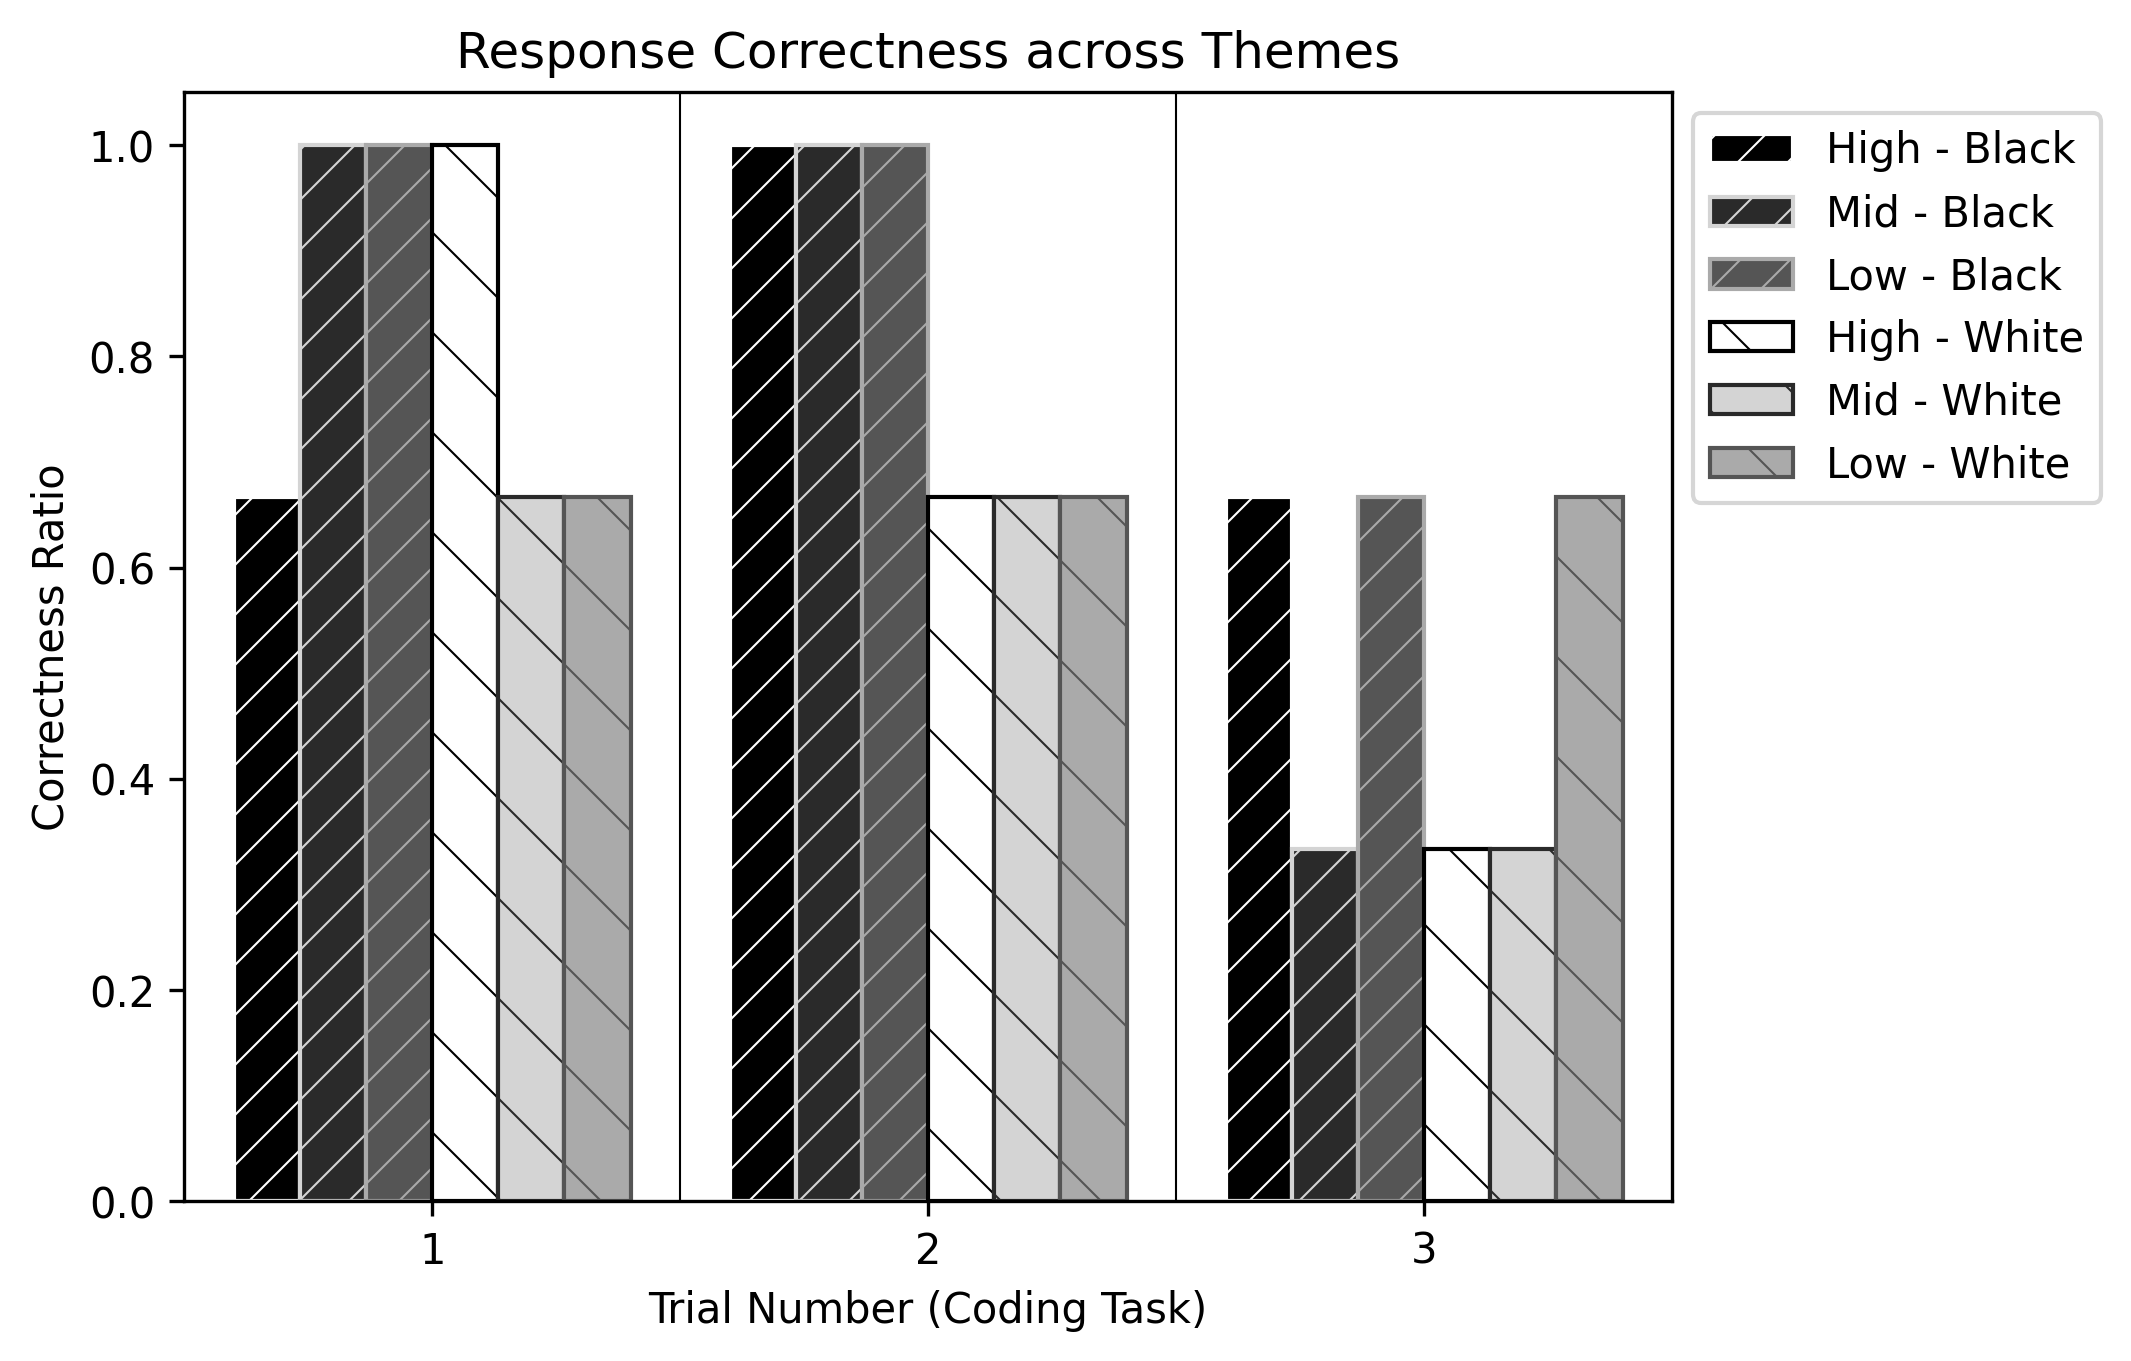
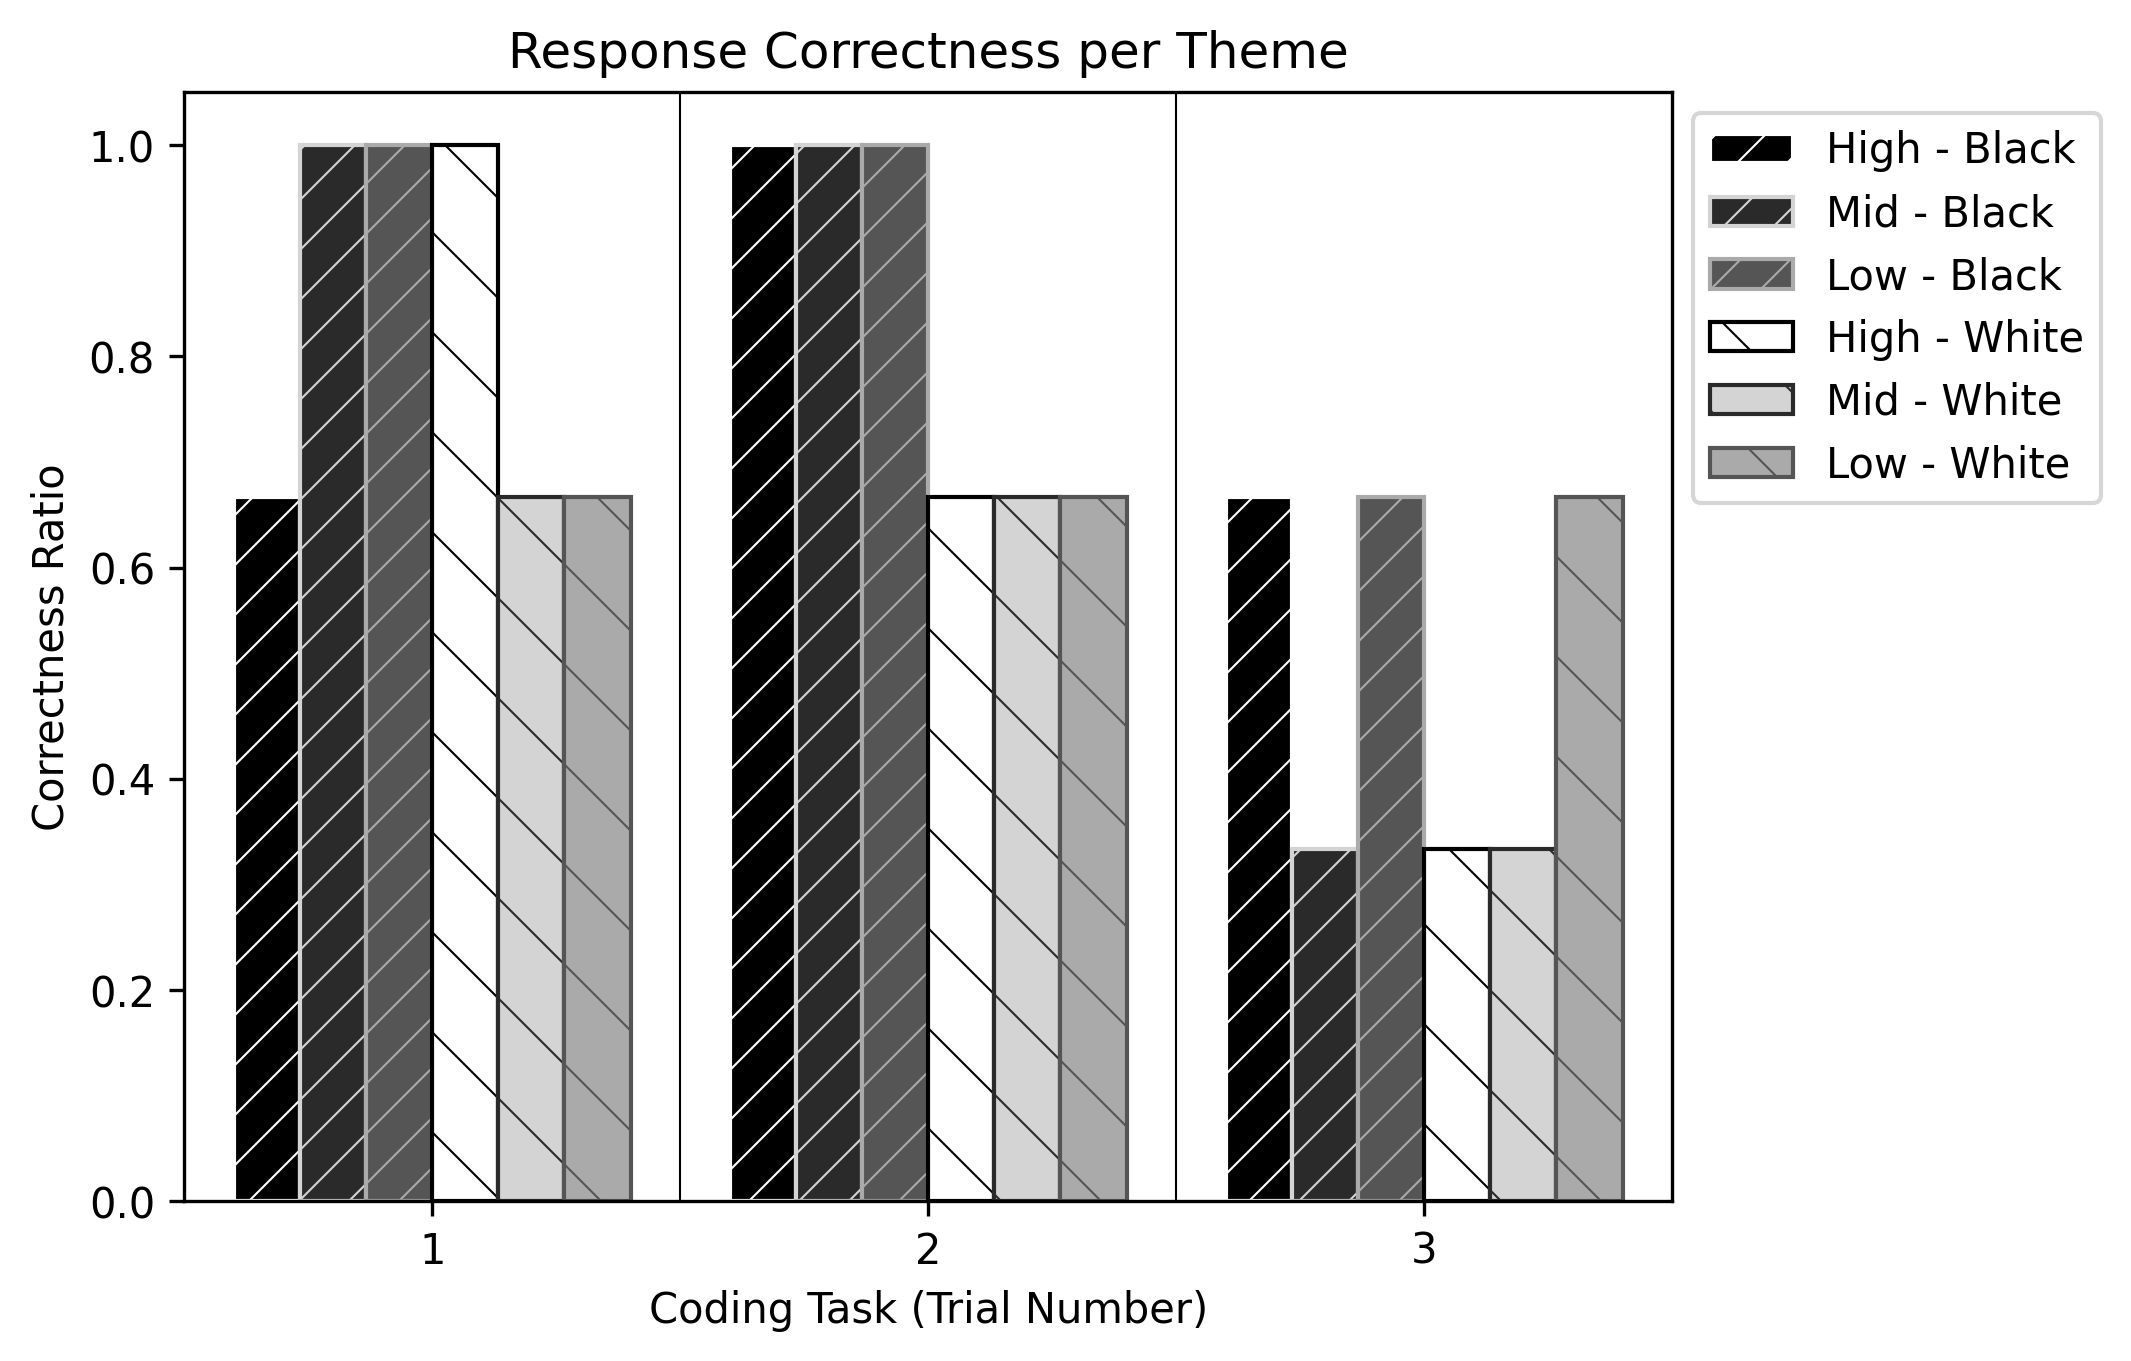
new figures

Changed region(s): [[0.2168, 0.0, 0.6504, 0.0617], [0.3097, 0.9258, 0.5575, 0.9875]]

diff --git a/results.py b/results.py
@@ -12,7 +12,7 @@ from statsmodels.stats.contingency_tables import cochrans_q
 import os
 
 
-X_LABEL = "Trial Number (Coding Task)"
+X_LABEL = "Coding Task (Trial Number)"
 LABELS = {0: "High - Black", 1: "Mid - Black", 2: "Low - Black",
           3: "High - White", 4: "Mid - White", 5: "Low - White"}
 HATCH_TYPE = ["//", "//", "//", "\\", "\\", "\\"]
@@ -146,7 +146,7 @@ def bar_plot(df):
     
     plt.xlabel(X_LABEL)
     plt.ylabel("Correctness Ratio")
-    plt.title("Response Correctness across Themes")
+    plt.title("Response Correctness per Theme")
 
     plt.axvline(x=0.5, color="black", linewidth=0.5)
     plt.axvline(x=1.5, color="black", linewidth=0.5)
